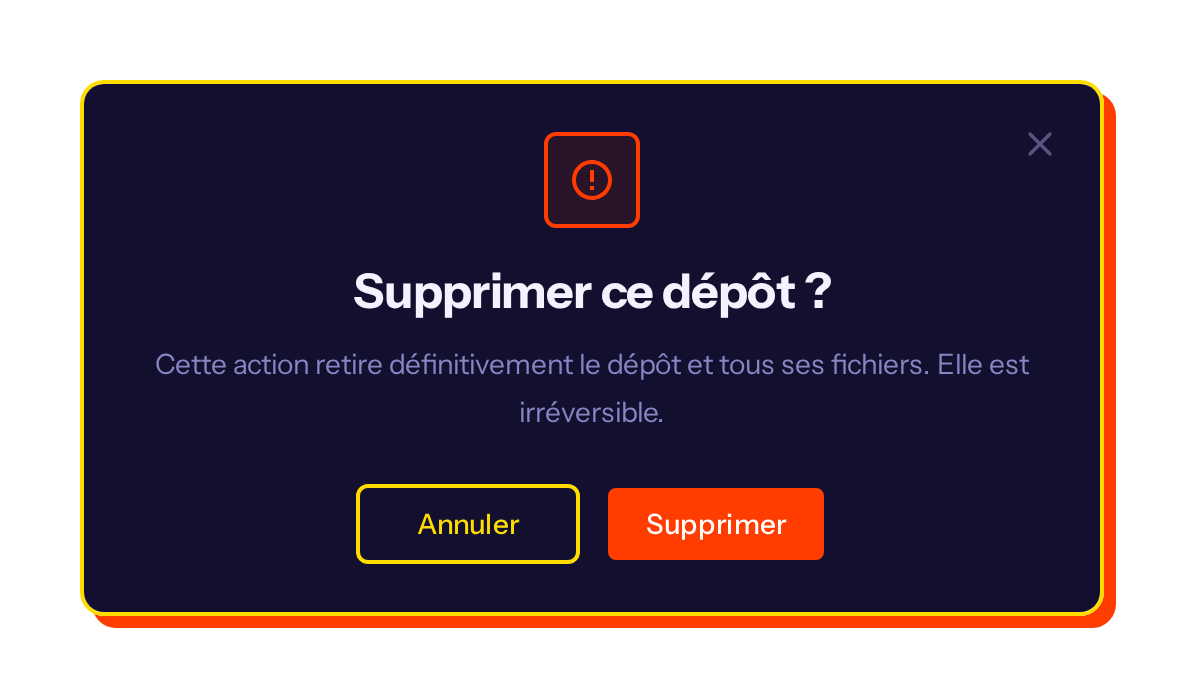
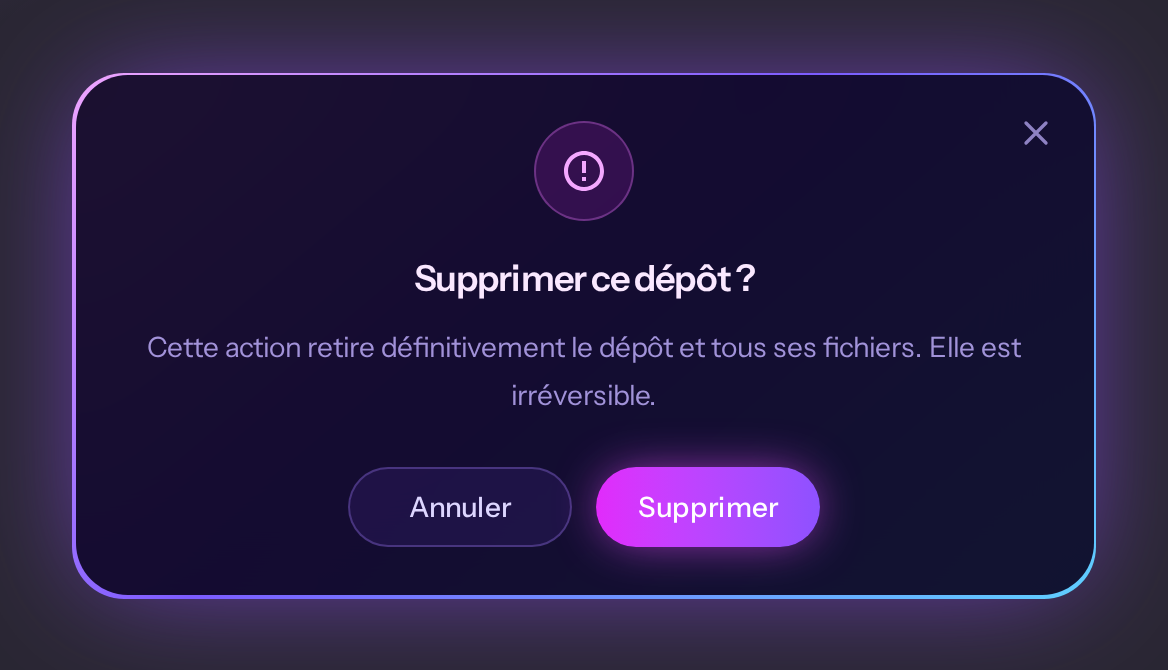
docs: reshoot the remaining screenshots with the neon halo
`composable`, `mobile-sheet` and `dark` were the last shots left on the
brutalist yellow. They now match the variants and the gallery.

`composable` and `dark` are shot with the demo page in dark mode: their
footer buttons come from the page's own tokens, which are ink-on-white in
light mode and unreadable on a violet panel.

Behind them, one real fix: the neon fill had its radius hard-coded, so
`mobileSheet` squared off the panel's bottom corners while the fill kept
its own 25px. `border-radius: inherit` makes the fill follow the panel
whenever a utility reshapes it.

diff --git a/src/Modal/themes.css b/src/Modal/themes.css
@@ -256,8 +256,11 @@
 		background-image: linear-gradient(140deg, #f0a6ff, #7c5cff 45%, #5fd0ff);
 	}
 
+	/* Inherited rather than fixed, so the fill still follows the panel when a
+	   utility reshapes it — `mobileSheet` squares off the bottom corners. */
 	.rtm-theme-neon .rtm-content {
-		@apply rounded-[25px] bg-[#0b0420]/92 p-6 backdrop-blur-xl;
+		@apply bg-[#0b0420]/92 p-6 backdrop-blur-xl;
+		border-radius: inherit;
 	}
 
 	.rtm-theme-neon .rtm-title {
